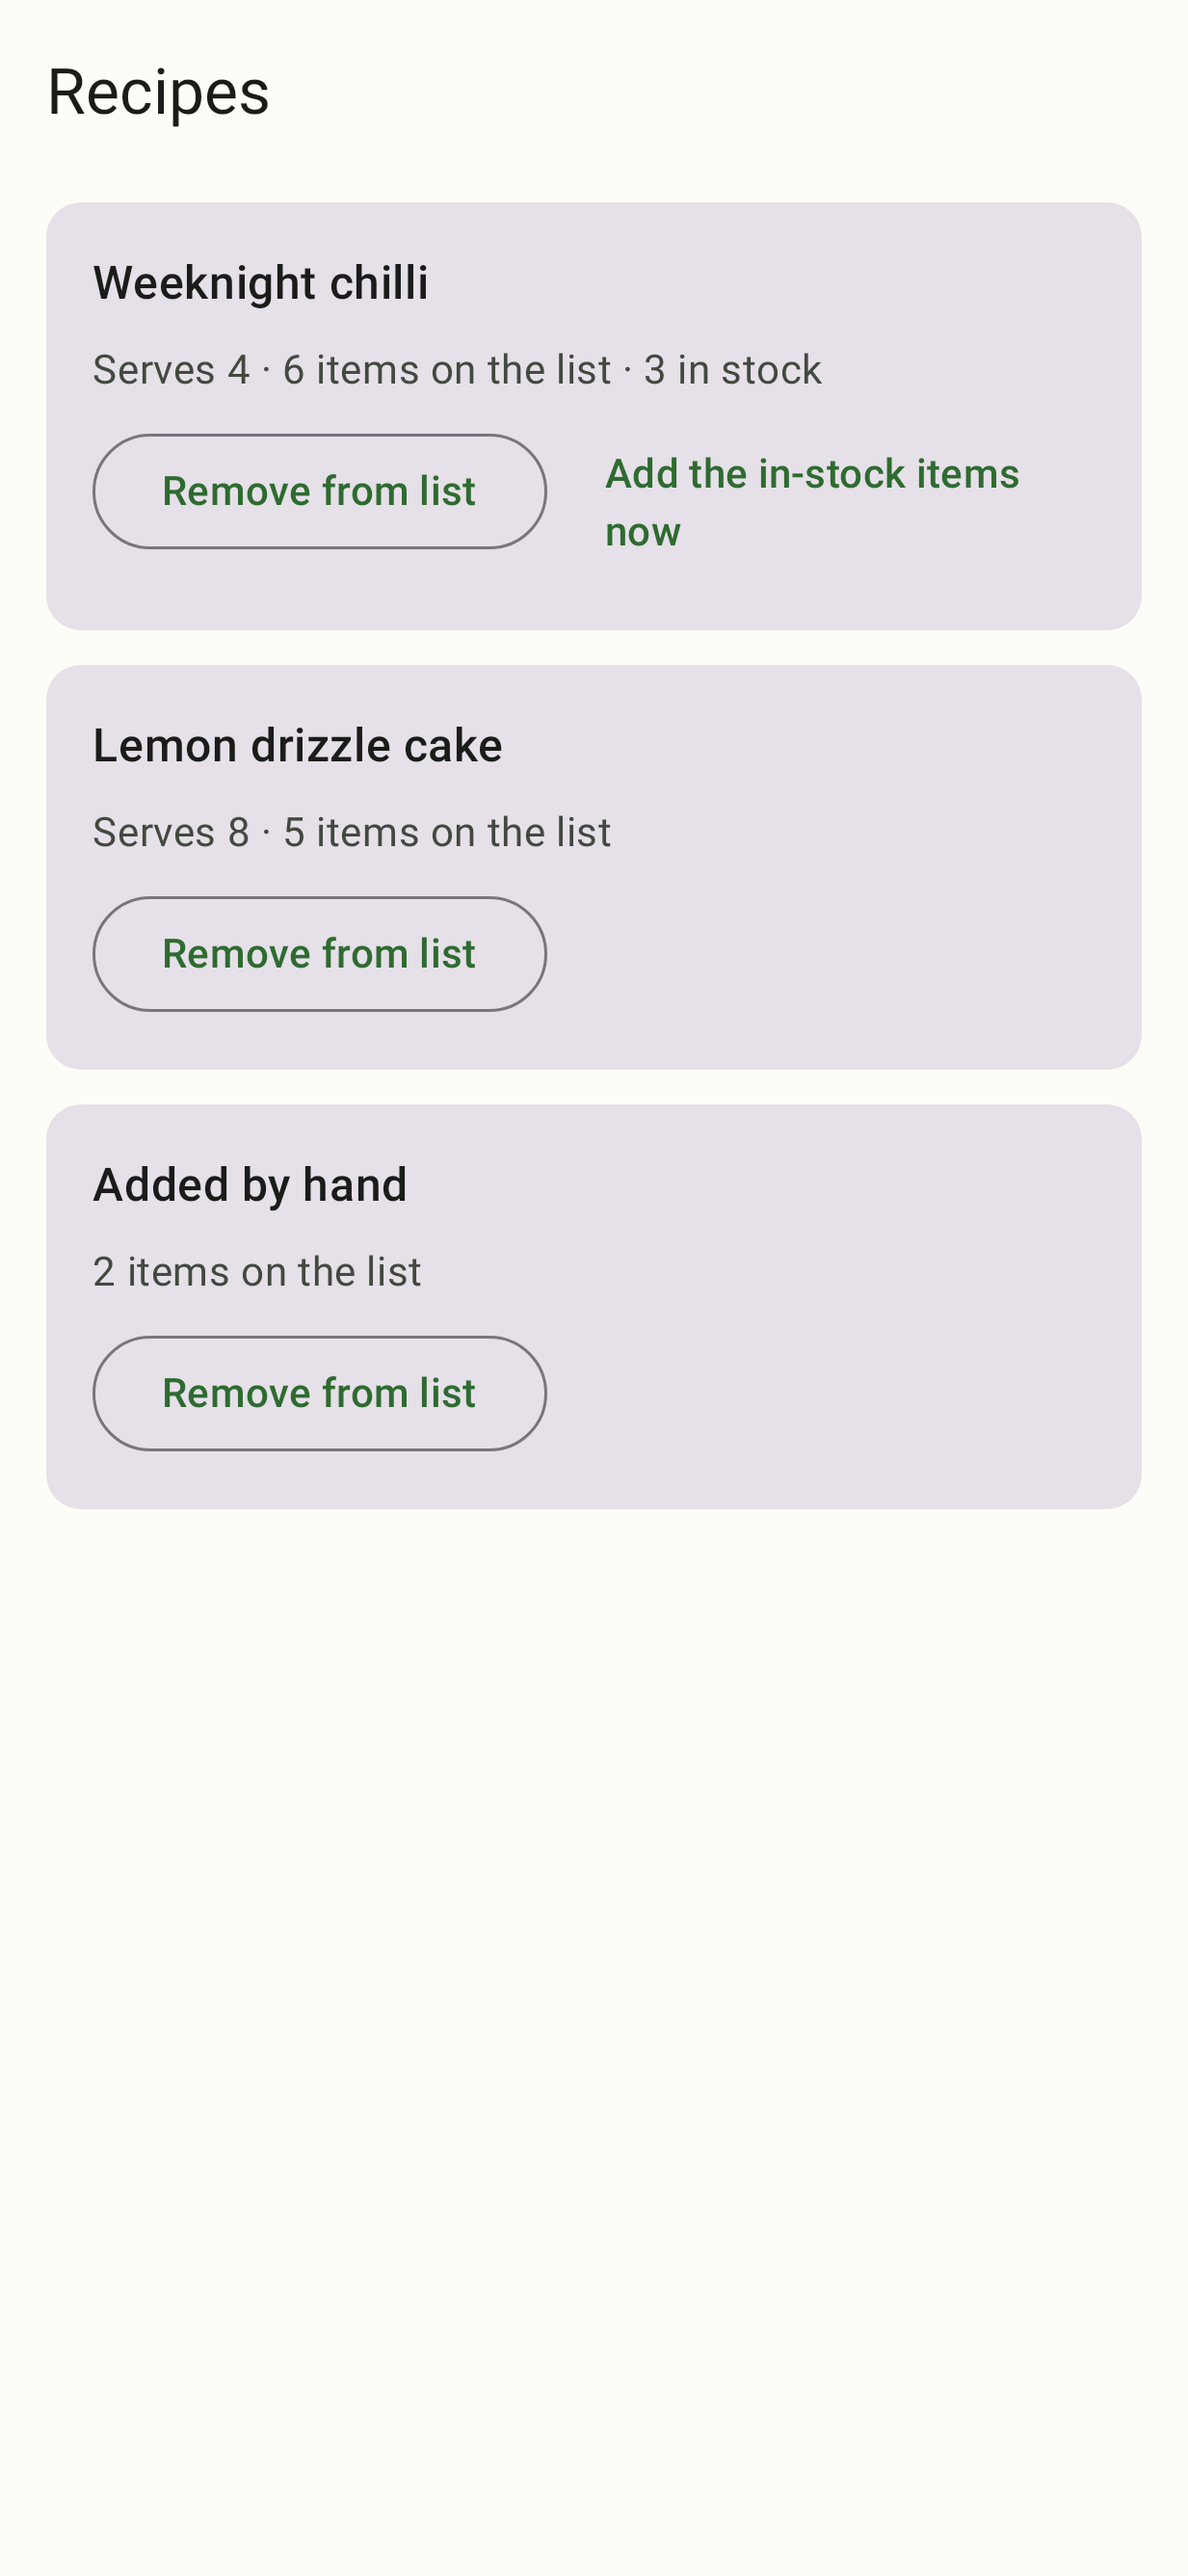
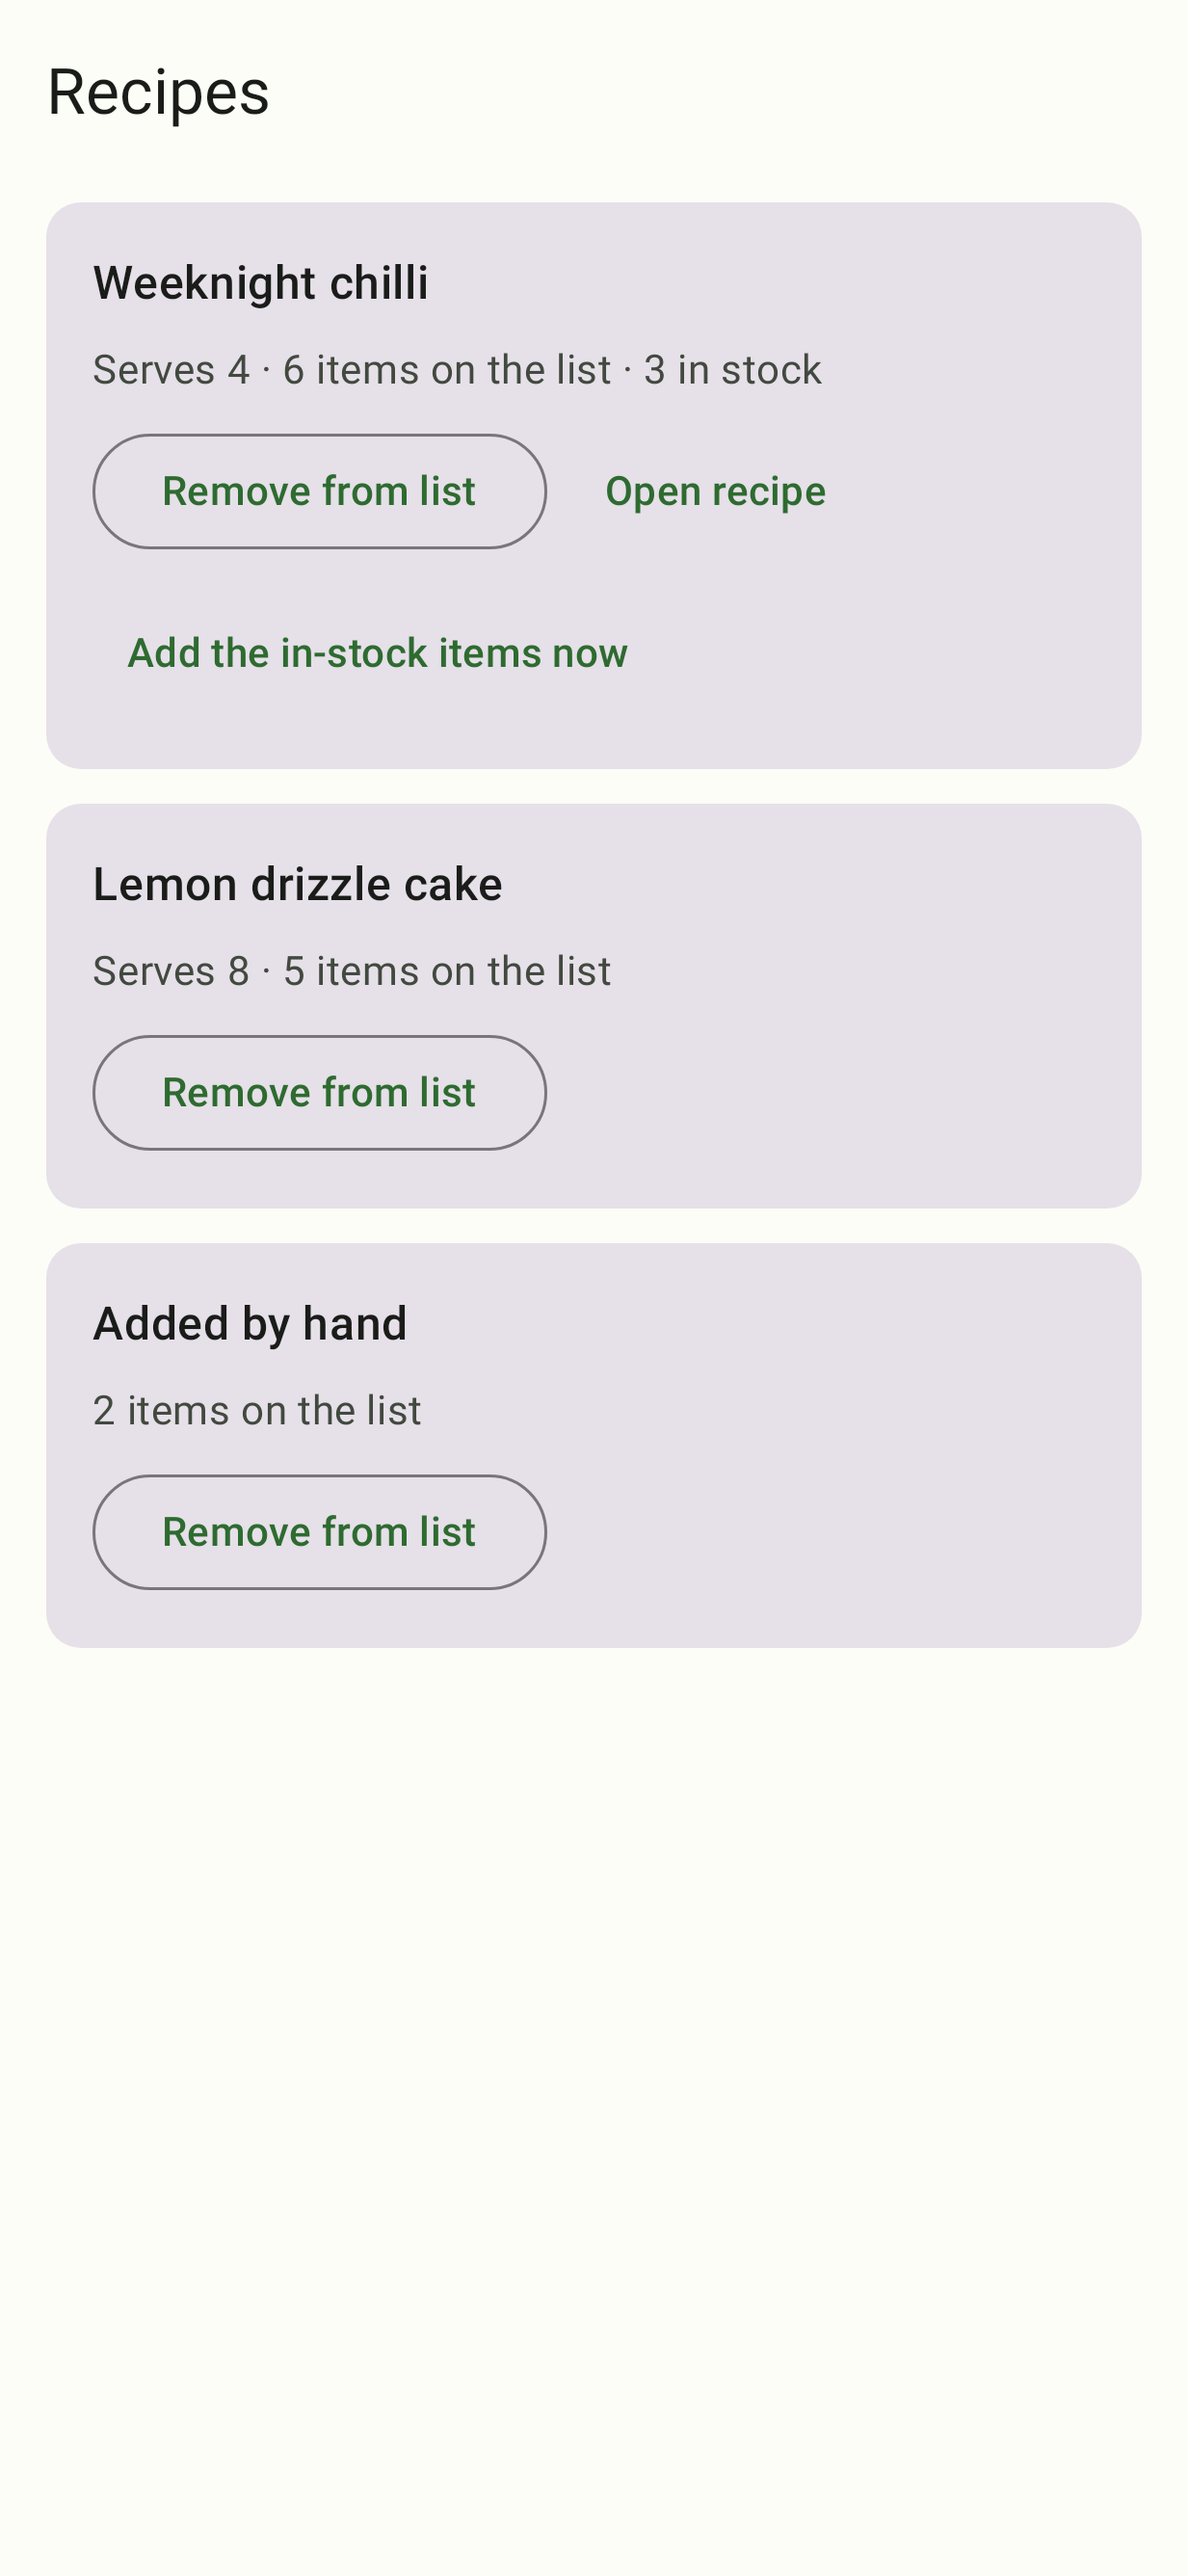
[A] Open recipe: link back to the recipe's page
Hand-off A feedback: the site a recipe came from should be one tap away.
The stored URL now opens in the browser from the review screen ("Open
recipe"), each card on the Recipes tab, and the item sheet's "From"
list. Only http(s) addresses become links; nothing happens when no app
can open them.

Claude-Session: https://claude.ai/code/session_016z2Qp5Lw5mkgJm6Jzuit5a

Changed region(s): [[0.0308, 0.1553, 0.9862, 0.6521], [0.7705, 0.1553, 0.8321, 0.1863]]

diff --git a/android/app/src/main/java/com/robert4lyf/hypershop/ui/list/ItemSheet.kt b/android/app/src/main/java/com/robert4lyf/hypershop/ui/list/ItemSheet.kt
@@ -1,5 +1,6 @@
 package com.robert4lyf.hypershop.ui.list
 
+import androidx.compose.foundation.clickable
 import androidx.compose.foundation.layout.Arrangement
 import androidx.compose.foundation.layout.Column
 import androidx.compose.foundation.layout.Row
@@ -23,8 +24,10 @@ import androidx.compose.runtime.setValue
 import androidx.compose.ui.Alignment
 import androidx.compose.ui.Modifier
 import androidx.compose.ui.platform.testTag
+import androidx.compose.ui.text.style.TextDecoration
 import androidx.compose.ui.unit.dp
 import com.robert4lyf.hypershop.core.model.AisleCode
+import com.robert4lyf.hypershop.ui.common.rememberOpenLink
 import com.robert4lyf.hypershop.ui.review.MoveAisle
 
 data class ItemSheetActions(
@@ -61,7 +64,20 @@ fun ItemSheetContent(
             sheet.packNote?.let { Text("Usually sold as $it", style = MaterialTheme.typography.bodyMedium) }
             if (sheet.sources.isNotEmpty()) {
                 Text("From", style = MaterialTheme.typography.labelLarge)
-                for (s in sheet.sources) Text(s, style = MaterialTheme.typography.bodyMedium)
+                val open = rememberOpenLink()
+                for (s in sheet.sources) {
+                    val url = sheet.links[s]
+                    if (url == null) {
+                        Text(s, style = MaterialTheme.typography.bodyMedium)
+                    } else {
+                        Text(
+                            s,
+                            style = MaterialTheme.typography.bodyMedium.copy(textDecoration = TextDecoration.Underline),
+                            color = MaterialTheme.colorScheme.primary,
+                            modifier = Modifier.clickable { open(url) }.testTag("source-link"),
+                        )
+                    }
+                }
             }
             HorizontalDivider()
             EditQuantity(actions.onEditQuantity)

diff --git a/android/app/src/test/java/com/robert4lyf/hypershop/ui/list/ItemSheetTest.kt b/android/app/src/test/java/com/robert4lyf/hypershop/ui/list/ItemSheetTest.kt
@@ -1,5 +1,8 @@
 package com.robert4lyf.hypershop.ui.list
 
+import androidx.compose.runtime.CompositionLocalProvider
+import androidx.compose.ui.platform.LocalUriHandler
+import androidx.compose.ui.platform.UriHandler
 import androidx.compose.ui.test.junit4.createComposeRule
 import androidx.compose.ui.test.onNodeWithTag
 import androidx.compose.ui.test.onNodeWithText
@@ -44,6 +47,30 @@ class ItemSheetTest {
                 )
             }
         }
+
+    @Test
+    fun aSourceWithAPageOpensIt() {
+        val opened = mutableListOf<String>()
+        val handler =
+            object : UriHandler {
+                override fun openUri(uri: String) {
+                    opened += uri
+                }
+            }
+        compose.setContent {
+            CompositionLocalProvider(LocalUriHandler provides handler) {
+                HyperShopTheme(dynamicColor = false) {
+                    ItemSheetContent(
+                        SHEET.copy(links = mapOf("Weeknight chilli" to "https://recipes.example/chilli")),
+                        ItemSheetActions(onMove = { _, _ -> }, onEditQuantity = { true }),
+                    )
+                }
+            }
+        }
+        compose.onNodeWithText("Weeknight chilli").performClick()
+        compose.onNodeWithText("Added by hand").performClick()
+        assertEquals(listOf("https://recipes.example/chilli"), opened)
+    }
 
     @Test
     fun totalsSourcesQuantityAndAisle() {

diff --git a/android/app/src/main/java/com/robert4lyf/hypershop/ui/list/ListViewModel.kt b/android/app/src/main/java/com/robert4lyf/hypershop/ui/list/ListViewModel.kt
@@ -11,6 +11,7 @@ import com.robert4lyf.hypershop.core.model.Rational
 import com.robert4lyf.hypershop.core.model.UnitLocale
 import com.robert4lyf.hypershop.di.AppContainer
 import com.robert4lyf.hypershop.ui.common.UiMessage
+import com.robert4lyf.hypershop.ui.common.webLink
 import kotlinx.coroutines.channels.Channel
 import kotlinx.coroutines.flow.Flow
 import kotlinx.coroutines.flow.MutableStateFlow
@@ -52,6 +53,8 @@ data class ItemSheet(
     val sources: List<String>,
     val packNote: String?,
     val aisle: AisleCode,
+    /** Source title to its recipe page. */
+    val links: Map<String, String> = emptyMap(),
 )
 
 data class ListUi(
@@ -153,8 +156,10 @@ class ListViewModel(
                 }
             val uses = list.contributionsOf(id).map { it.useId }.distinct()
             val titles = c.repository.useTitles(uses)
+            val urls = c.repository.useUrls(uses)
+            val links = uses.mapNotNull { u -> titles[u]?.let { t -> webLink(urls[u])?.let { t to it } } }.toMap()
             _sheet.value =
-                ItemSheet(id, entry?.name ?: item.displayName, totals, uses.mapNotNull { titles[it] }, entry?.packNote, item.aisle)
+                ItemSheet(id, entry?.name ?: item.displayName, totals, uses.mapNotNull { titles[it] }, entry?.packNote, item.aisle, links)
         }
 
     fun closeItem() {

diff --git a/android/app/src/main/java/com/robert4lyf/hypershop/ui/review/ReviewScreen.kt b/android/app/src/main/java/com/robert4lyf/hypershop/ui/review/ReviewScreen.kt
@@ -45,6 +45,7 @@ import androidx.compose.ui.text.font.FontWeight
 import androidx.compose.ui.text.style.TextDecoration
 import androidx.compose.ui.unit.dp
 import com.robert4lyf.hypershop.core.model.AisleCode
+import com.robert4lyf.hypershop.ui.common.rememberOpenLink
 
 /** The review screen's default view (PLAN §3.1), stateless. */
 @Composable
@@ -123,7 +124,8 @@ private fun BadgeRow(
     ui: ReviewUi,
     onRetryClaude: () -> Unit,
 ) {
-    Row(Modifier.padding(horizontal = 16.dp, vertical = 4.dp), verticalAlignment = Alignment.CenterVertically) {
+    val open = rememberOpenLink()
+    Row(Modifier.fillMaxWidth().padding(horizontal = 16.dp, vertical = 4.dp), verticalAlignment = Alignment.CenterVertically) {
         when (ui.badge) {
             Badge.CLAUDE -> AssistChip(onClick = {}, label = { Text("Parsed by Claude") })
             Badge.CLAUDE_PENDING -> {
@@ -134,6 +136,10 @@ private fun BadgeRow(
             Badge.RULES -> AssistChip(onClick = {}, label = { Text("Parsed offline") })
         }
         if (ui.busy) CircularProgressIndicator(Modifier.padding(start = 8.dp).width(20.dp))
+        ui.url?.let { url ->
+            Spacer(Modifier.weight(1f))
+            TextButton(onClick = { open(url) }, modifier = Modifier.testTag("open-recipe")) { Text("Open recipe") }
+        }
     }
 }
 

diff --git a/android/app/src/main/java/com/robert4lyf/hypershop/ui/recipes/RecipesRoute.kt b/android/app/src/main/java/com/robert4lyf/hypershop/ui/recipes/RecipesRoute.kt
@@ -31,6 +31,8 @@ import androidx.lifecycle.compose.collectAsStateWithLifecycle
 import androidx.lifecycle.viewmodel.compose.viewModel
 import com.robert4lyf.hypershop.data.UseSummary
 import com.robert4lyf.hypershop.di.AppContainer
+import com.robert4lyf.hypershop.ui.common.rememberOpenLink
+import com.robert4lyf.hypershop.ui.common.webLink
 import com.robert4lyf.hypershop.ui.list.show
 import com.robert4lyf.hypershop.ui.util.factoryFor
 
@@ -103,8 +105,12 @@ private fun UseCard(
             Text(bits.joinToString(" · "), style = MaterialTheme.typography.bodyMedium, color = MaterialTheme.colorScheme.onSurfaceVariant)
             Row(horizontalArrangement = Arrangement.spacedBy(8.dp)) {
                 OutlinedButton(onClick = onRemove) { Text("Remove from list") }
-                if (use.inStockCount > 0) TextButton(onClick = onAddInStock) { Text("Add the in-stock items now") }
+                webLink(use.url)?.let { url ->
+                    val open = rememberOpenLink()
+                    TextButton(onClick = { open(url) }, modifier = Modifier.testTag("open-${use.useId}")) { Text("Open recipe") }
+                }
             }
+            if (use.inStockCount > 0) TextButton(onClick = onAddInStock) { Text("Add the in-stock items now") }
         }
     }
 }

diff --git a/android/app/src/main/java/com/robert4lyf/hypershop/ui/review/ReviewViewModel.kt b/android/app/src/main/java/com/robert4lyf/hypershop/ui/review/ReviewViewModel.kt
@@ -16,6 +16,7 @@ import com.robert4lyf.hypershop.di.AppContainer
 import com.robert4lyf.hypershop.importing.ImportError
 import com.robert4lyf.hypershop.importing.ImportResult
 import com.robert4lyf.hypershop.importing.JobState
+import com.robert4lyf.hypershop.ui.common.webLink
 import kotlinx.coroutines.flow.MutableStateFlow
 import kotlinx.coroutines.flow.StateFlow
 import kotlinx.coroutines.flow.first
@@ -64,6 +65,8 @@ data class ReviewUi(
     val busy: Boolean = false,
     /** "List changed — review updated" */
     val notice: String? = null,
+    /** The recipe's page, to open in the browser. */
+    val url: String? = null,
 ) {
     val addCount: Int get() = aisles.sumOf { (_, rows) -> rows.count { !it.inStock } }
 }
@@ -210,6 +213,7 @@ class ReviewViewModel(
                             else -> Badge.RULES
                         },
                     notice = notice,
+                    url = webLink(r.url),
                 ),
             )
     }

diff --git a/android/app/src/main/java/com/robert4lyf/hypershop/ui/common/OpenLink.kt b/android/app/src/main/java/com/robert4lyf/hypershop/ui/common/OpenLink.kt
@@ -1,0 +1,16 @@
+package com.robert4lyf.hypershop.ui.common
+
+import androidx.compose.runtime.Composable
+import androidx.compose.runtime.remember
+import androidx.compose.ui.platform.LocalUriHandler
+
+/** A recipe's page, when it is a web address the browser can open. */
+fun webLink(url: String?): String? =
+    url?.trim()?.takeIf { it.startsWith("https://", ignoreCase = true) || it.startsWith("http://", ignoreCase = true) }
+
+/** Opens a page in the browser; does nothing when no app can open it. */
+@Composable
+fun rememberOpenLink(): (String) -> Unit {
+    val handler = LocalUriHandler.current
+    return remember(handler) { { url -> runCatching { handler.openUri(url) } } }
+}

diff --git a/android/app/src/test/java/com/robert4lyf/hypershop/ui/common/OpenLinkTest.kt b/android/app/src/test/java/com/robert4lyf/hypershop/ui/common/OpenLinkTest.kt
@@ -1,0 +1,18 @@
+package com.robert4lyf.hypershop.ui.common
+
+import org.junit.Assert.assertEquals
+import org.junit.Assert.assertNull
+import org.junit.Test
+
+class OpenLinkTest {
+    @Test
+    fun onlyWebAddressesAreLinks() {
+        assertEquals("https://www.recipetineats.com/x/", webLink(" https://www.recipetineats.com/x/ "))
+        assertEquals("http://example.com/r", webLink("http://example.com/r"))
+        assertNull(webLink(null))
+        assertNull(webLink(""))
+        assertNull(webLink("javascript:alert(1)"))
+        assertNull(webLink("file:///data/data/x"))
+        assertNull(webLink("intent://x#Intent;end"))
+    }
+}

diff --git a/android/data/src/main/kotlin/com/robert4lyf/hypershop/data/ListRepository.kt b/android/data/src/main/kotlin/com/robert4lyf/hypershop/data/ListRepository.kt
@@ -209,6 +209,13 @@ class ListRepository(
             }
         }
 
+    /** Recipe pages behind an item, by use, for the item sheet's links. */
+    suspend fun useUrls(useIds: Collection<Long>): Map<Long, String?> =
+        db.withTransaction {
+            val l = load()
+            useIds.associateWith { id -> l.uses[id]?.recipeId?.let { dao.recipe(it) }?.url }
+        }
+
     /** "Add the in-stock items now": the lines of [useId] that were left out as in stock. */
     suspend fun inStockLines(useId: Long): Pair<RecipeEntity, List<ParsedIngredient>>? =
         db.withTransaction {
